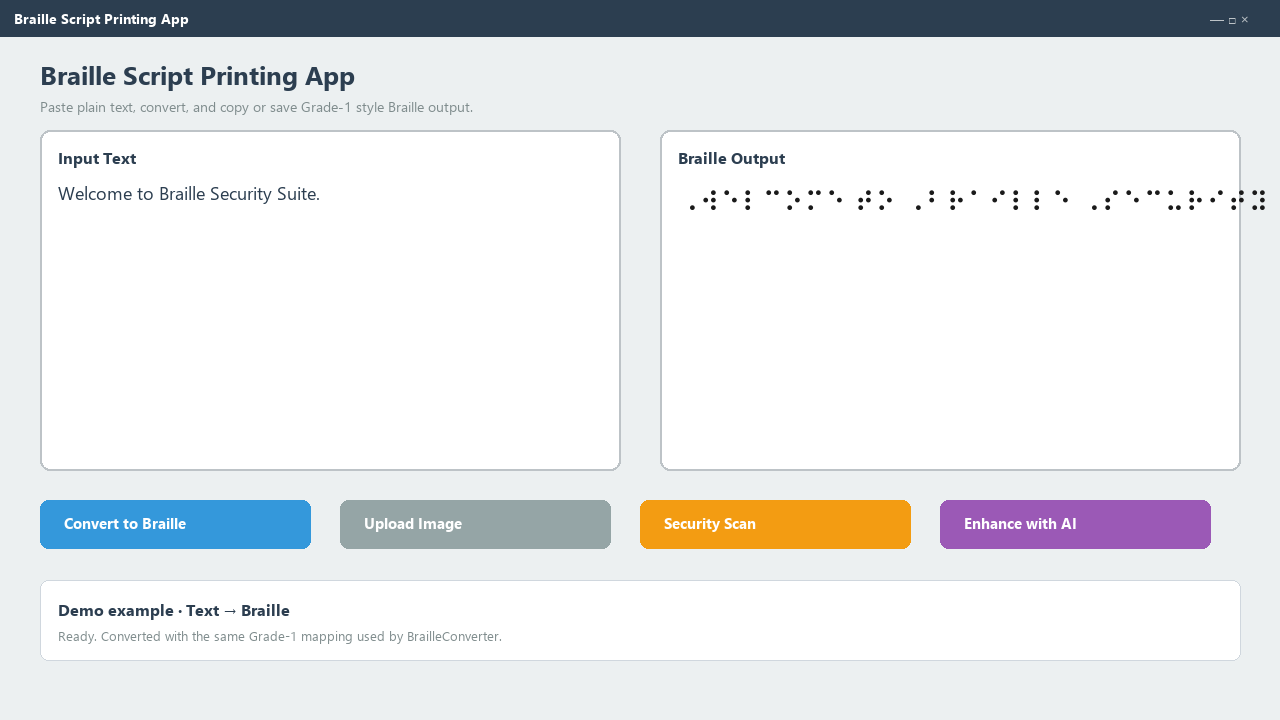
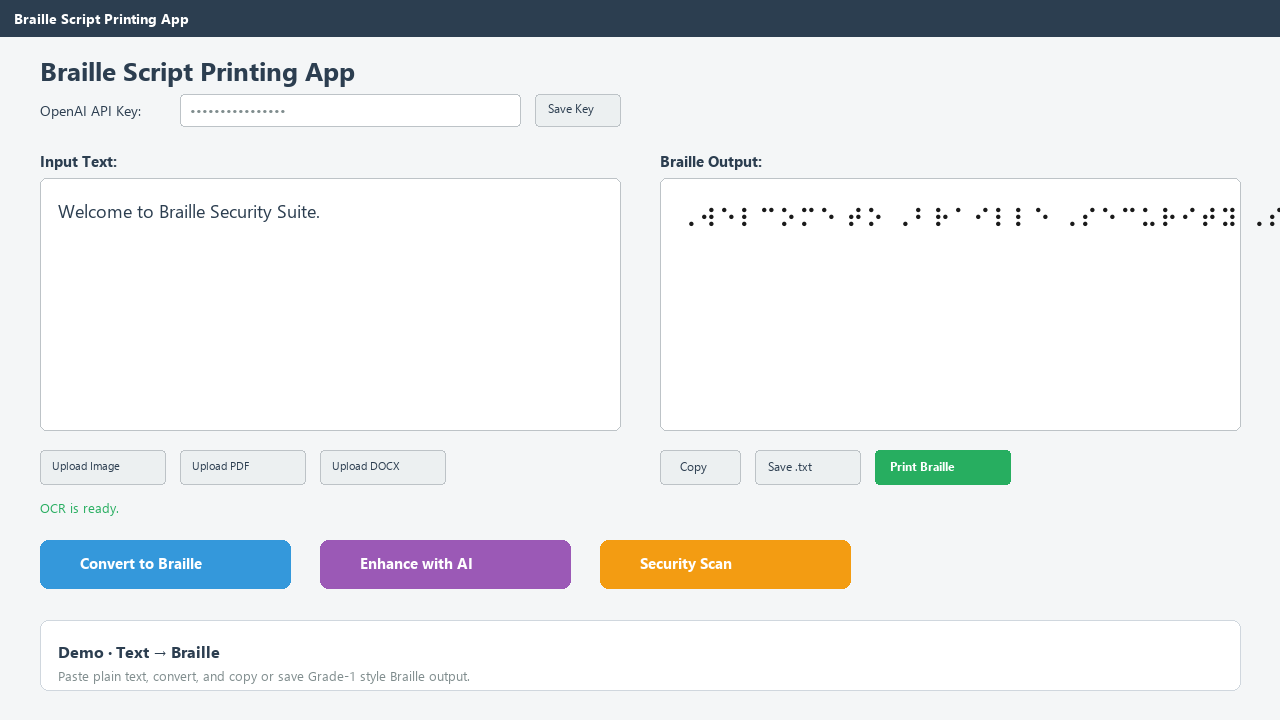
docs: regenerate demo GIF and screenshots
Refresh portfolio demo frames to match the live UI (masked API key field) and rebuild the walkthrough GIF.

diff --git a/scripts/generate_demo_assets.py b/scripts/generate_demo_assets.py
@@ -109,39 +109,59 @@ def draw_app_chrome(draw: ImageDraw.ImageDraw, w: int, h: int, title: str):
 
 def make_conversion_shot(slug: str, title: str, input_text: str, caption: str) -> Path:
     w, h = 1280, 720
-    img = Image.new("RGB", (w, h), "#ecf0f1")
+    img = Image.new("RGB", (w, h), "#f4f6f7")
     draw = ImageDraw.Draw(img)
-    draw_app_chrome(draw, w, h, caption)
+    # Title bar
+    draw.rectangle((0, 0, w, 36), fill="#2c3e50")
+    draw.text((14, 8), "Braille Script Printing App", fill="white", font=font(14, True))
+    draw.text((40, 52), "Braille Script Printing App", fill="#2c3e50", font=font(26, True))
+    # Masked API key row (matches PasswordField UX)
+    draw.text((40, 100), "OpenAI API Key:", fill="#2c3e50", font=font(14))
+    rounded_rect(draw, (180, 94, 520, 126), 4, "#ffffff", "#bdc3c7", 1)
+    draw.text((190, 100), "••••••••••••••••", fill="#7f8c8d", font=font(14))
+    rounded_rect(draw, (535, 94, 620, 126), 4, "#ecf0f1", "#bdc3c7", 1)
+    draw.text((548, 100), "Save Key", fill="#2c3e50", font=font(12))
 
     braille = to_braille(input_text)
 
-    # Input panel
-    rounded_rect(draw, (40, 130, 620, 470), 10, "#ffffff", "#bdc3c7", 2)
-    draw.text((58, 146), "Input Text", fill="#2c3e50", font=font(16, True))
-    draw.multiline_text((58, 180), input_text, fill="#2c3e50", font=font(18), spacing=6)
+    # Input / output panels (live UI layout)
+    draw.text((40, 150), "Input Text:", fill="#2c3e50", font=font(15, True))
+    rounded_rect(draw, (40, 178, 620, 430), 6, "#ffffff", "#bdc3c7", 1)
+    draw.multiline_text((58, 198), input_text, fill="#2c3e50", font=font(18), spacing=6)
 
-    # Output panel
-    rounded_rect(draw, (660, 130, 1240, 470), 10, "#ffffff", "#bdc3c7", 2)
-    draw.text((678, 146), "Braille Output", fill="#2c3e50", font=font(16, True))
-    draw.multiline_text((678, 180), braille, fill="#1a1a1a", font=braille_font(28), spacing=10)
+    draw.text((660, 150), "Braille Output:", fill="#2c3e50", font=font(15, True))
+    rounded_rect(draw, (660, 178, 1240, 430), 6, "#ffffff", "#bdc3c7", 1)
+    draw.multiline_text((678, 198), braille, fill="#1a1a1a", font=braille_font(26), spacing=8)
 
-    # Action row
+    # Upload + OCR
+    for i, label in enumerate(("Upload Image", "Upload PDF", "Upload DOCX")):
+        x0 = 40 + i * 140
+        rounded_rect(draw, (x0, 450, x0 + 125, 484), 4, "#ecf0f1", "#bdc3c7", 1)
+        draw.text((x0 + 12, 458), label, fill="#2c3e50", font=font(11))
+    draw.text((40, 498), "OCR is ready.", fill="#27ae60", font=font(13))
+
+    rounded_rect(draw, (660, 450, 740, 484), 4, "#ecf0f1", "#bdc3c7", 1)
+    draw.text((680, 458), "Copy", fill="#2c3e50", font=font(12))
+    rounded_rect(draw, (755, 450, 860, 484), 4, "#ecf0f1", "#bdc3c7", 1)
+    draw.text((768, 458), "Save .txt", fill="#2c3e50", font=font(12))
+    rounded_rect(draw, (875, 450, 1010, 484), 4, "#27ae60")
+    draw.text((890, 458), "Print Braille", fill="white", font=font(12, True))
+
+    # Action groups
     for i, (label, color) in enumerate(
         [
             ("Convert to Braille", "#3498db"),
-            ("Upload Image", "#95a5a6"),
-            ("Security Scan", "#f39c12"),
             ("Enhance with AI", "#9b59b6"),
+            ("Security Scan", "#f39c12"),
         ]
     ):
-        x0 = 40 + i * 300
-        rounded_rect(draw, (x0, 500, x0 + 270, 548), 8, color)
-        draw.text((x0 + 24, 512), label, fill="white", font=font(15, True))
+        x0 = 40 + i * 280
+        rounded_rect(draw, (x0, 540, x0 + 250, 588), 8, color)
+        draw.text((x0 + 40, 552), label, fill="white", font=font(15, True))
 
-    # Status bar
-    rounded_rect(draw, (40, 580, 1240, 660), 8, "#ffffff", "#d0d7de", 1)
-    draw.text((58, 598), f"Demo example · {title}", fill="#2c3e50", font=font(16, True))
-    draw.text((58, 626), "Ready. Converted with the same Grade-1 mapping used by BrailleConverter.", fill="#7f8c8d", font=font(13))
+    rounded_rect(draw, (40, 620, 1240, 690), 8, "#ffffff", "#d0d7de", 1)
+    draw.text((58, 640), f"Demo · {title}", fill="#2c3e50", font=font(16, True))
+    draw.text((58, 666), caption, fill="#7f8c8d", font=font(13))
 
     path = SHOTS / f"{slug}.png"
     img.save(path, optimize=True)
@@ -315,22 +335,6 @@ def capture_live_window(exact_title: str = "Braille Script Printing App") -> Pat
         ratio = max_w / shot.width
         shot = shot.resize((max_w, int(shot.height * ratio)), Image.Resampling.LANCZOS)
     shot.save(path, optimize=True)
-    # Never commit a visible API key from the live UI field
-    draw = ImageDraw.Draw(shot)
-    w, h = shot.size
-    draw.rounded_rectangle(
-        (int(w * 0.14), int(h * 0.075), int(w * 0.70), int(h * 0.145)),
-        radius=4,
-        fill="#f5f5f5",
-        outline="#b0b0b0",
-    )
-    draw.text(
-        (int(w * 0.16), int(h * 0.098)),
-        "[API key redacted for public demo]",
-        fill="#555555",
-        font=font(13),
-    )
-    shot.save(path, optimize=True)
     print(f"Captured live UI -> {path} ({shot.width}x{shot.height})")
     return path
 
@@ -348,7 +352,7 @@ def make_gif(paths: list[Path]) -> Path:
         gif_path,
         save_all=True,
         append_images=frames[1:],
-        duration=2200,
+        duration=1800,
         loop=0,
         optimize=False,
     )
